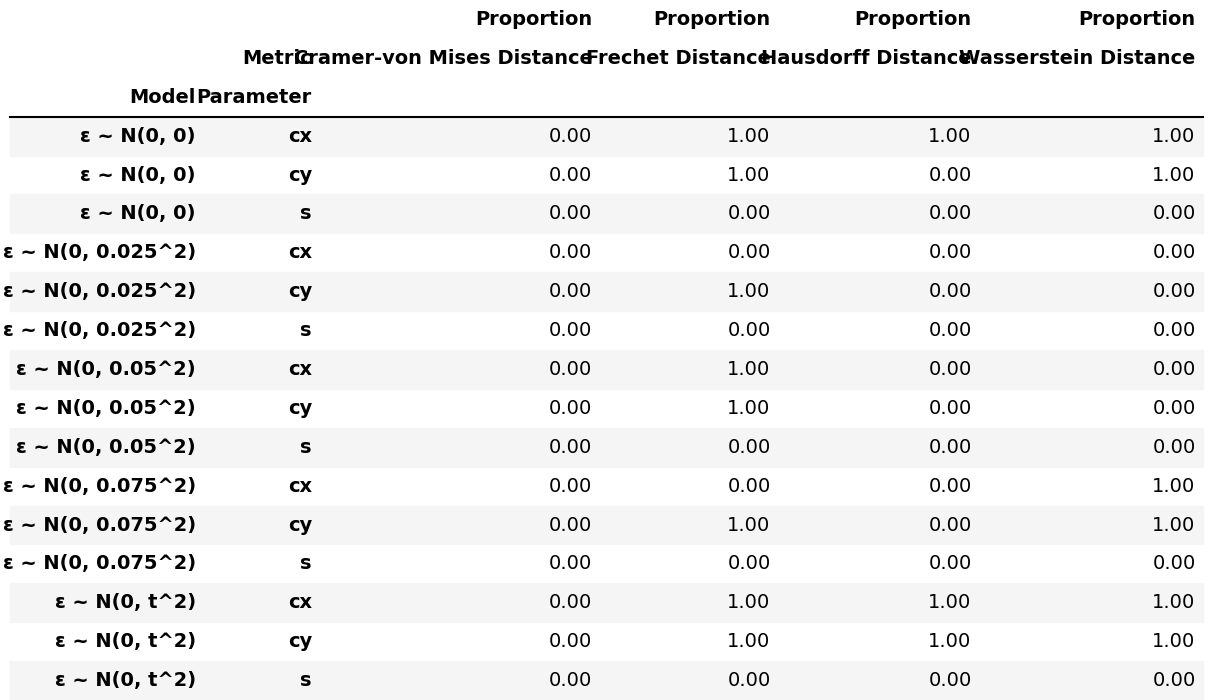
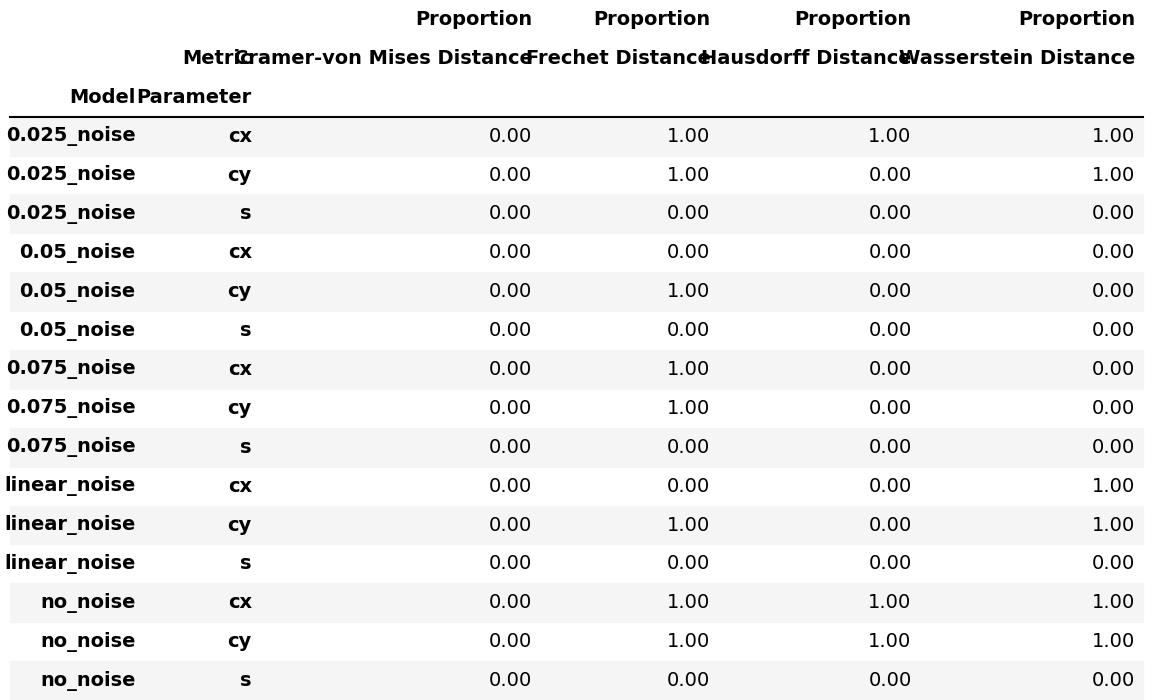
fixed CI proportion table.

diff --git a/gaussian_plume/results_table.py b/gaussian_plume/results_table.py
@@ -112,22 +112,24 @@ if __name__ == "__main__":
 
     ci_pivot_table = pd.pivot(melted_ci_proportion,
                               values=["Proportion"], index=["Model", "Parameter"], columns=["Metric"])
+    
+    # print(ci_pivot_table)
 
-    ci_pivot_table.index = pd.MultiIndex.from_tuples([('ε ~ N(0, 0)', 'cx'),
-                                                    ('ε ~ N(0, 0)',  'cy'),
-                                                    ('ε ~ N(0, 0)',  's'),
-                                                    ('ε ~ N(0, 0.025^2)', 'cx'),
-                                                    ('ε ~ N(0, 0.025^2)',  'cy'),
-                                                    ('ε ~ N(0, 0.025^2)', 's'),
-                                                    ('ε ~ N(0, 0.05^2)',  'cx'),
-                                                    ('ε ~ N(0, 0.05^2)', 'cy'),
-                                                    ('ε ~ N(0, 0.05^2)', 's'),
-                                                    ('ε ~ N(0, 0.075^2)',  'cx'),
-                                                    ('ε ~ N(0, 0.075^2)',  'cy'),
-                                                    ('ε ~ N(0, 0.075^2)',  's'),
-                                                    ('ε ~ N(0, t^2)', 'cx'),
-                                                    ('ε ~ N(0, t^2)',  'cy'),
-                                                    ('ε ~ N(0, t^2)', 's')], names=["Model", "Parameter"])
+    # ci_pivot_table.index = pd.MultiIndex.from_tuples([('ε ~ N(0, 0)', 'cx'),
+    #                                                 ('ε ~ N(0, 0)',  'cy'),
+    #                                                 ('ε ~ N(0, 0)',  's'),
+    #                                                 ('ε ~ N(0, 0.025^2)', 'cx'),
+    #                                                 ('ε ~ N(0, 0.025^2)',  'cy'),
+    #                                                 ('ε ~ N(0, 0.025^2)', 's'),
+    #                                                 ('ε ~ N(0, 0.05^2)',  'cx'),
+    #                                                 ('ε ~ N(0, 0.05^2)', 'cy'),
+    #                                                 ('ε ~ N(0, 0.05^2)', 's'),
+    #                                                 ('ε ~ N(0, 0.075^2)',  'cx'),
+    #                                                 ('ε ~ N(0, 0.075^2)',  'cy'),
+    #                                                 ('ε ~ N(0, 0.075^2)',  's'),
+    #                                                 ('ε ~ N(0, t^2)', 'cx'),
+    #                                                 ('ε ~ N(0, t^2)',  'cy'),
+    #                                                 ('ε ~ N(0, t^2)', 's')], names=["Model", "Parameter"])
 
     ci_pivot_table = ci_pivot_table.style.format(precision=2)
     save_path_t6 = os.path.join(PLOT_PATH, "ci_proportion.png")
